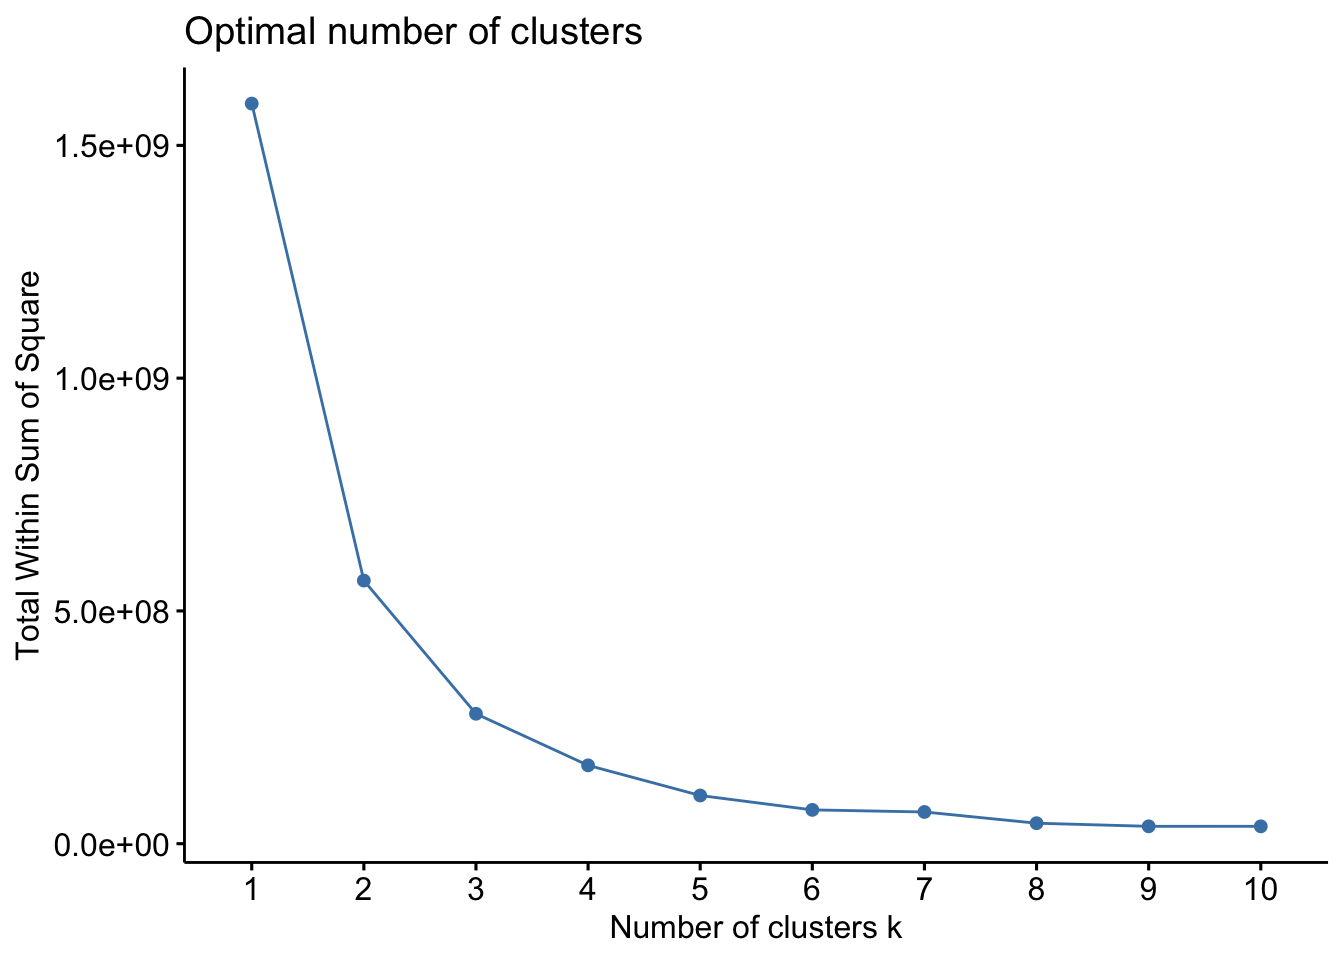
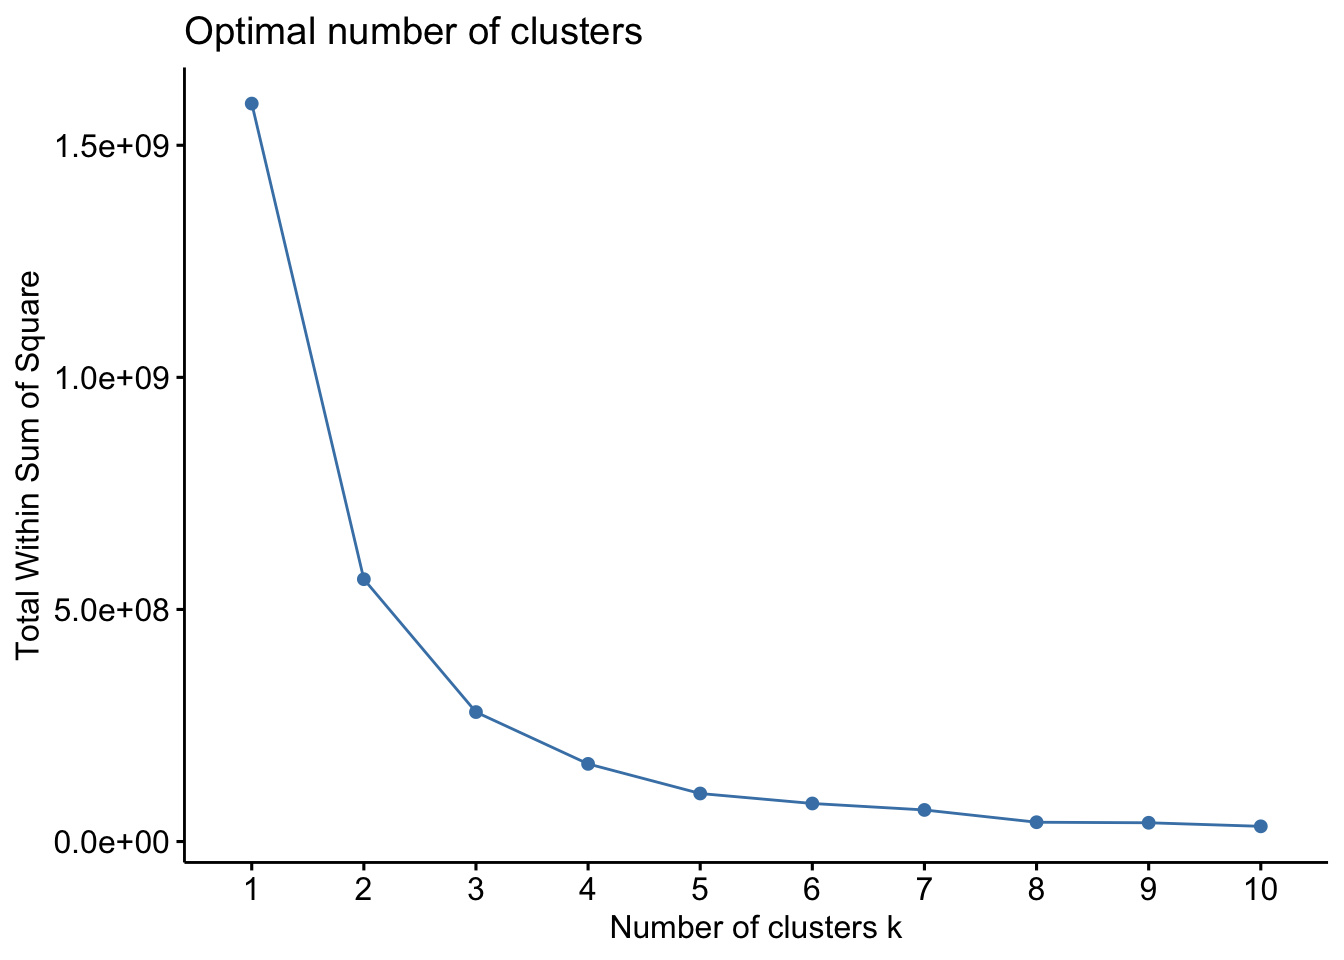
minor mods

diff --git a/docs/08_equacoes.html b/docs/08_equacoes.html
@@ -6,6 +6,8 @@
 
 <meta name="viewport" content="width=device-width, initial-scale=1.0, user-scalable=yes">
 
+<meta name="author" content="Carlos Alberto Peruzzo Trivelloni">
+<meta name="author" content="Luiz Fernando Palin Droubi">
 
 <title>8&nbsp; Equações de Estimação – Caderno Metodológico</title>
 <style>
@@ -237,8 +239,14 @@ ul.task-list li input[type="checkbox"] {
 </nav>
 <div id="quarto-sidebar-glass" class="quarto-sidebar-collapse-item" data-bs-toggle="collapse" data-bs-target=".quarto-sidebar-collapse-item"></div>
 <!-- margin-sidebar -->
-    <div id="quarto-margin-sidebar" class="sidebar margin-sidebar zindex-bottom">
-        
+    <div id="quarto-margin-sidebar" class="sidebar margin-sidebar">
+        <nav id="TOC" role="doc-toc" class="toc-active">
+    <h2 id="toc-title">Índice</h2>
+   
+  <ul>
+  <li><a href="#sec-eq" id="toc-sec-eq" class="nav-link active" data-scroll-target="#sec-eq"><span class="header-section-number">9</span> Equações de Estimação</a></li>
+  </ul>
+<div class="toc-actions"><ul><li><a href="https://github.com/LabFSG-UFSC/VRCIB_Cad_Metodologico_Estimacao/edit/main/08_equacoes.qmd" class="toc-action"><i class="bi bi-github"></i>Editar essa página</a></li></ul></div></nav>
     </div>
 <!-- main -->
 <main class="content" id="quarto-document-content">
@@ -252,6 +260,13 @@ ul.task-list li input[type="checkbox"] {
 
 <div class="quarto-title-meta">
 
+    <div>
+    <div class="quarto-title-meta-heading">Autores</div>
+    <div class="quarto-title-meta-contents">
+             <p>Carlos Alberto Peruzzo Trivelloni </p>
+             <p>Luiz Fernando Palin Droubi </p>
+          </div>
+  </div>
     
   
     
@@ -262,8 +277,11 @@ ul.task-list li input[type="checkbox"] {
 </header>
 
 
+<section id="sec-eq" class="level1" data-number="9">
+<h1 data-number="9"><span class="header-section-number">9</span> Equações de Estimação</h1>
 
 
+</section>
 
 </main> <!-- /main -->
 <script id="quarto-html-after-body" type="application/javascript">
@@ -686,7 +704,7 @@ ul.task-list li input[type="checkbox"] {
 </div>   
     <div class="nav-footer-center">
 <p><img src="img/Logo com RFB e UFSC.png" class="img-fluid" width="250"></p>
-<div class="toc-actions"><ul><li><a href="https://github.com/LabFSG-UFSC/VRCIB_Cad_Metodologico_Estimacao/edit/main/08_equacoes.qmd" class="toc-action"><i class="bi bi-github"></i>Editar essa página</a></li></ul></div></div>
+<div class="toc-actions d-sm-block d-md-none"><ul><li><a href="https://github.com/LabFSG-UFSC/VRCIB_Cad_Metodologico_Estimacao/edit/main/08_equacoes.qmd" class="toc-action"><i class="bi bi-github"></i>Editar essa página</a></li></ul></div></div>
     <div class="nav-footer-right">
       &nbsp;
     </div>

diff --git a/docs/06_ML.html b/docs/06_ML.html
@@ -238,21 +238,15 @@ ul.task-list li input[type="checkbox"] {
 </nav>
 <div id="quarto-sidebar-glass" class="quarto-sidebar-collapse-item" data-bs-toggle="collapse" data-bs-target=".quarto-sidebar-collapse-item"></div>
 <!-- margin-sidebar -->
-    <div id="quarto-margin-sidebar" class="sidebar margin-sidebar">
-        <nav id="TOC" role="doc-toc" class="toc-active">
-    <h2 id="toc-title">Índice</h2>
-   
-  <ul>
-  <li><a href="#section" id="toc-section" class="nav-link active" data-scroll-target="#section"><span class="header-section-number">7</span> </a></li>
-  </ul>
-<div class="toc-actions"><ul><li><a href="https://github.com/LabFSG-UFSC/VRCIB_Cad_Metodologico_Estimacao/edit/main/06_ML.qmd" class="toc-action"><i class="bi bi-github"></i>Editar essa página</a></li></ul></div></nav>
+    <div id="quarto-margin-sidebar" class="sidebar margin-sidebar zindex-bottom">
+        
     </div>
 <!-- main -->
 <main class="content" id="quarto-document-content">
 
 <header id="title-block-header" class="quarto-title-block default">
 <div class="quarto-title">
-<h1 class="title"><span class="chapter-number">6</span>&nbsp; <span class="chapter-title">Análise de dados com modelos de aprendizado de máquina</span></h1>
+<h1 class="title"><span id="sec-ML" class="quarto-section-identifier"><span class="chapter-number">6</span>&nbsp; <span class="chapter-title">Análise de dados com modelos de aprendizado de máquina</span></span></h1>
 </div>
 
 
@@ -275,12 +269,8 @@ ul.task-list li input[type="checkbox"] {
 </header>
 
 
-<section id="section" class="level1" data-number="7">
-<h1 data-number="7"><span class="header-section-number">7</span> </h1>
-<p>(CAROL)</p>
 
 
-</section>
 
 </main> <!-- /main -->
 <script id="quarto-html-after-body" type="application/javascript">
@@ -703,7 +693,7 @@ ul.task-list li input[type="checkbox"] {
 </div>   
     <div class="nav-footer-center">
 <p><img src="img/Logo com RFB e UFSC.png" class="img-fluid" width="250"></p>
-<div class="toc-actions d-sm-block d-md-none"><ul><li><a href="https://github.com/LabFSG-UFSC/VRCIB_Cad_Metodologico_Estimacao/edit/main/06_ML.qmd" class="toc-action"><i class="bi bi-github"></i>Editar essa página</a></li></ul></div></div>
+<div class="toc-actions"><ul><li><a href="https://github.com/LabFSG-UFSC/VRCIB_Cad_Metodologico_Estimacao/edit/main/06_ML.qmd" class="toc-action"><i class="bi bi-github"></i>Editar essa página</a></li></ul></div></div>
     <div class="nav-footer-right">
       &nbsp;
     </div>